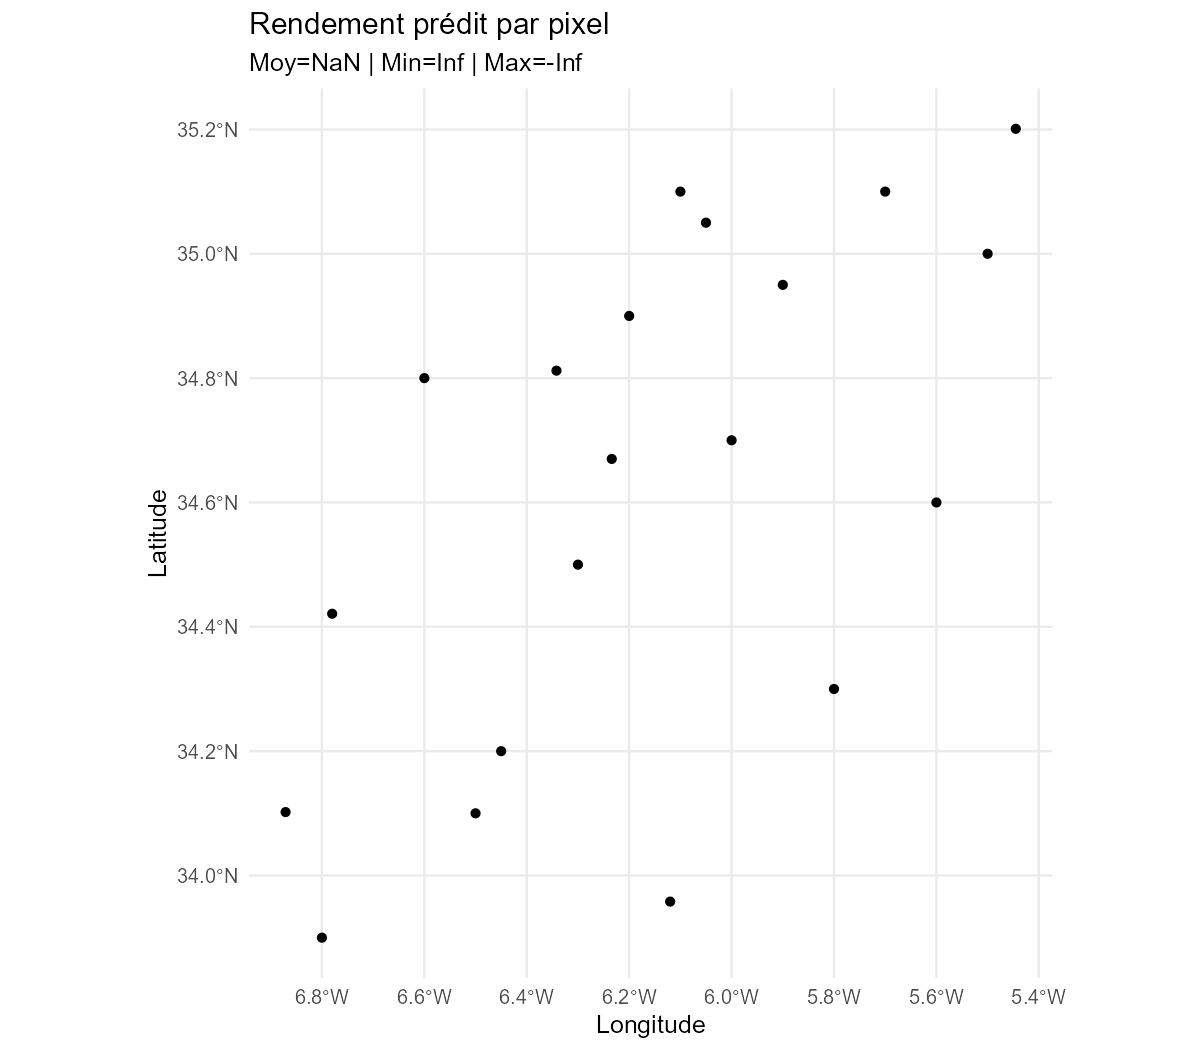
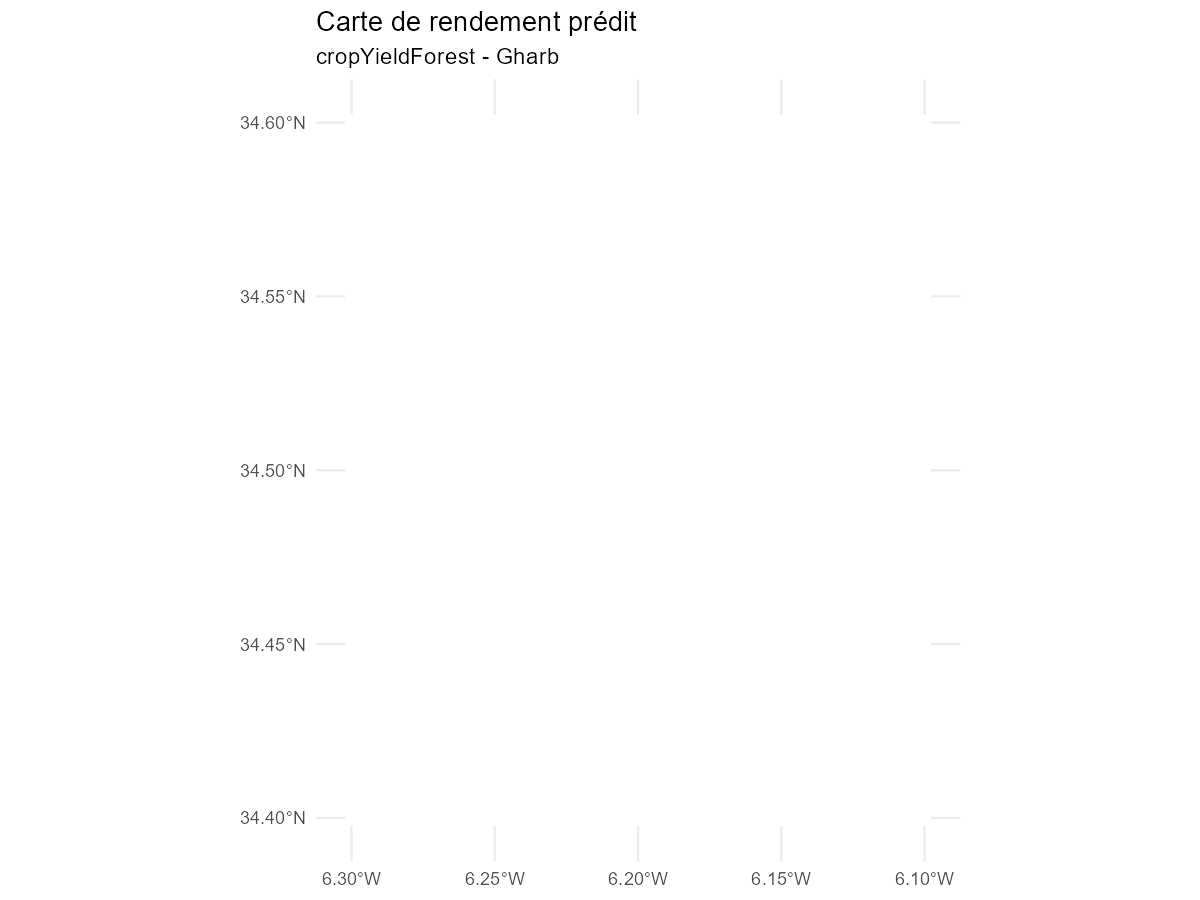
Ajout dashboard NDVI et carte de rendement

diff --git a/README.md b/README.md
@@ -585,3 +585,9 @@ Voir [`outputs/model_metrics.csv`](outputs/model_metrics.csv)
 ![Carte des rendements](outputs/maps/yield_map.png)
 
 ![Carte zones à faible rendement](outputs/maps/low_yield_map.png)
+
+## Dashboard NDVI & Rendement
+
+![NDVI MODIS](outputs/maps/ndvi_map.png)
+
+![Carte de rendement](outputs/maps/yield_map.png)